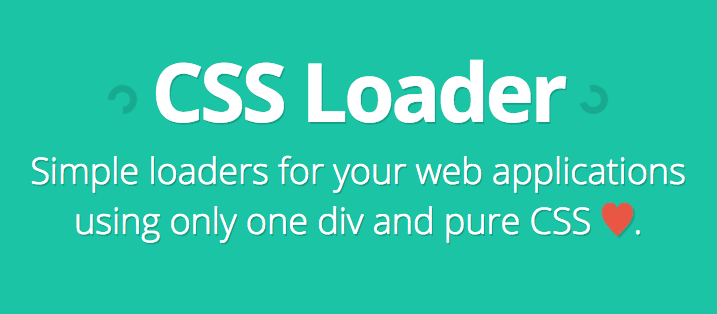
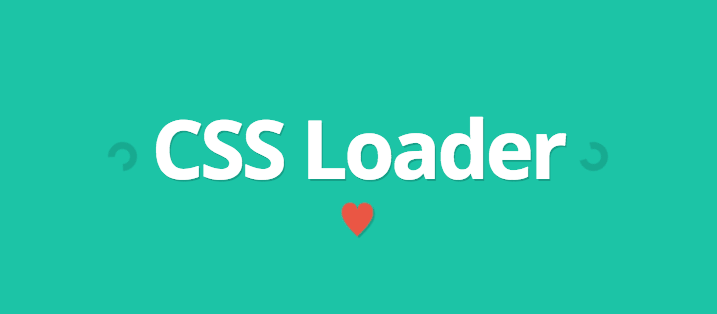
Change the share image

Changed region(s): [[0.0307, 0.172, 0.9512, 0.7739], [0.7978, 0.258, 0.8591, 0.3726]]

diff --git a/index.html b/index.html
@@ -20,7 +20,7 @@
   <meta name="twitter:title" content="CSS Loader">
   <meta name="twitter:description" content="Simple loaders for your web applications using only one div and pure CSS.">
 
-  <link rel="canonical" href="http://www.raphaelfabeni.com.br/css-loader">
+  <link rel="canonical" href="http://www.raphaelfabeni.com.br/css-loader/">
   <link href="https://fonts.googleapis.com/css?family=Open+Sans:300,400,700" rel="stylesheet">
 
   <link rel="shortcut icon" href="/favicon.ico" type="image/x-icon" />
